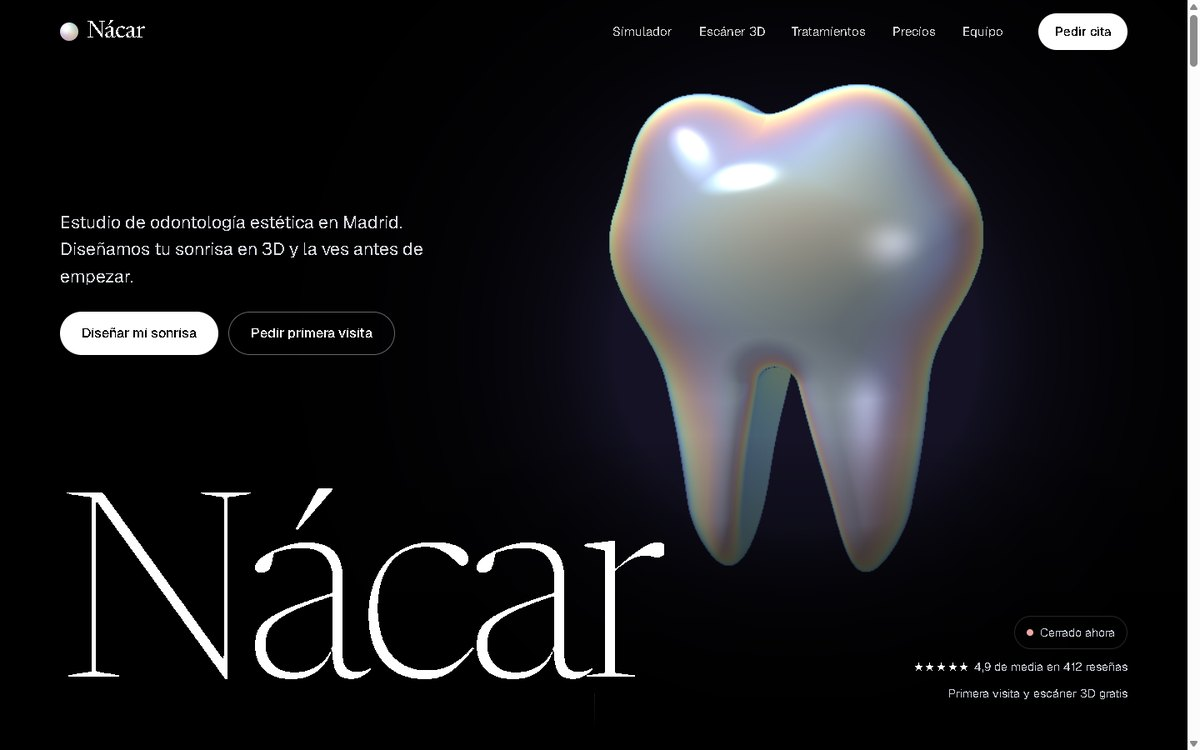
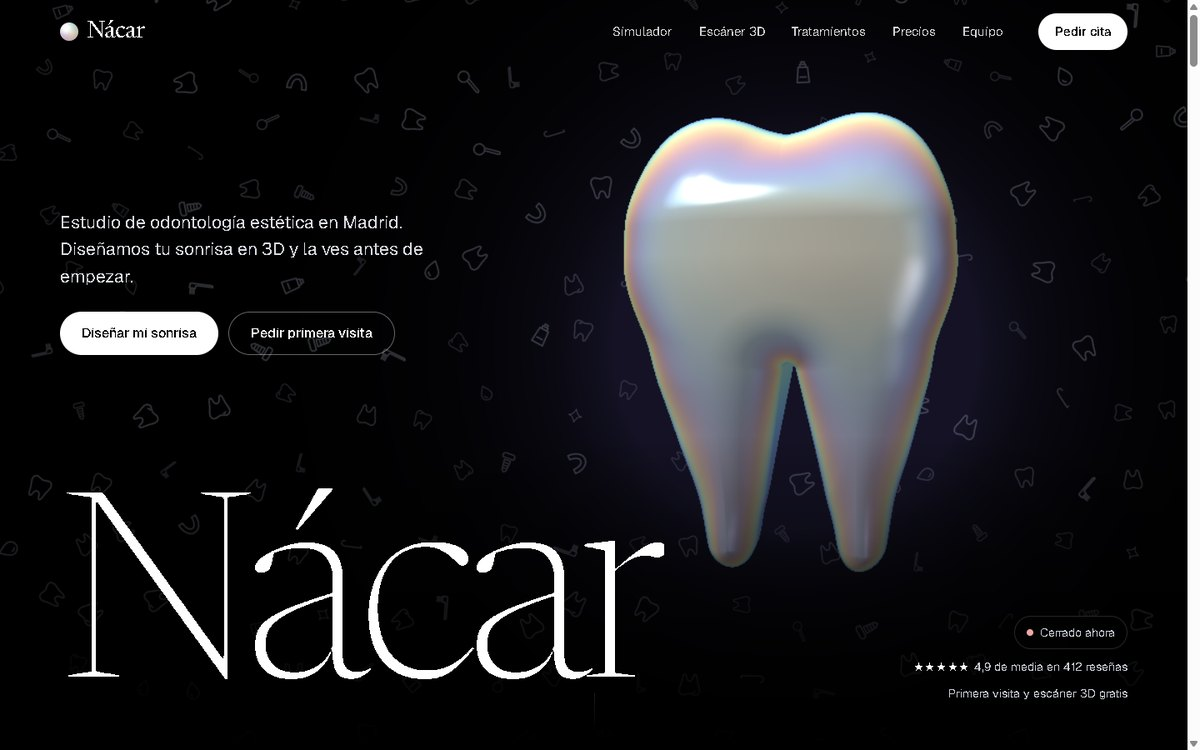
Nácar: pearl and tooth now loop, cleaner tooth outline, grey dental pattern on black
The tooth is built from its front outline (crown with two humps, walls
running into two roots) given depth as a domed slab. The pearl grows
into it and melts back on a 25 s loop. The outline pattern returns in
grey behind the black hero.

diff --git a/Websites/clinica_dental_nacar.html b/Websites/clinica_dental_nacar.html
@@ -89,6 +89,13 @@ h1,h2,h3,p{margin:0}
 
 /* ---------- hero ---------- */
 .hero{position:relative;height:100svh;min-height:640px;overflow:hidden;background:#000}
+/* dental pattern: small grey outline teeth and instruments scattered like a print; three depth layers follow the pointer */
+.doodles{position:absolute;inset:-40px;pointer-events:none;color:#5E626C}
+.dl{position:absolute;inset:0;transform:translate3d(calc(var(--hx,0) * var(--d) * -34px),calc(var(--hy,0) * var(--d) * -22px),0)}
+.doodle{position:absolute;left:var(--x);top:var(--y);width:var(--s);height:var(--s);margin:calc(var(--s) / -2) 0 0 calc(var(--s) / -2)}
+.doodle svg{width:100%;height:100%;overflow:visible;fill:none;stroke:currentColor;stroke-width:1.3;stroke-linecap:round;stroke-linejoin:round;stroke-dasharray:1;stroke-dashoffset:1;opacity:var(--o);transform:rotate(var(--r));transition:stroke-dashoffset 1.6s var(--ease) var(--w)}
+.ready .doodle svg{stroke-dashoffset:0;animation:doodle-float var(--t) ease-in-out calc(var(--w) + 1.6s) infinite alternate}
+@keyframes doodle-float{to{transform:rotate(calc(var(--r) + 14deg)) translate3d(0,-7px,0)}}
 .hero canvas,.hero .pearl-css{position:absolute;inset:0;width:100%;height:100%}
 .pearl-css{display:none;background:radial-gradient(circle at 64% 42%,transparent 0 23vmin,#000 23.4vmin),radial-gradient(circle at 58% 34%,#fff 0,transparent 9vmin),conic-gradient(from 210deg at 64% 42%,#f6dbe8,#dcd9ff,#cdeee5,#fbefd5,#f6dbe8)}
 .no-gl .pearl-css{display:block}
@@ -434,6 +441,7 @@ h1,h2,h3,p{margin:0}
 @media (prefers-reduced-motion:reduce){
   *,*::before,*::after{animation-duration:.001ms!important;animation-iteration-count:1!important;transition-duration:.001ms!important;transition-delay:0s!important}
   .rv,.line>span,.mark span{opacity:1!important;transform:none!important}
+  .doodle svg{stroke-dashoffset:0!important;animation:none!important}
   .clip{clip-path:none!important}
   .hero-meta{opacity:1}
   .marquee{animation:none!important;flex-wrap:nowrap}
@@ -471,6 +479,16 @@ h1,h2,h3,p{margin:0}
   <symbol id="i-moon" viewBox="0 0 24 24"><path d="M20 14.5A8 8 0 0 1 9.5 4a8 8 0 1 0 10.5 10.5z" fill="none" stroke="currentColor" stroke-width="1.5" stroke-linejoin="round"/></symbol>
   <symbol id="i-hand" viewBox="0 0 24 24"><path d="M8 13V6a1.5 1.5 0 0 1 3 0v5-7a1.5 1.5 0 0 1 3 0v7-5a1.5 1.5 0 0 1 3 0v8c0 4-2.5 7-6 7-2.5 0-4-1.2-5.5-3.5L4 13.5a1.5 1.5 0 0 1 2.4-1.8z" fill="none" stroke="currentColor" stroke-width="1.5" stroke-linejoin="round"/></symbol>
   <symbol id="i-cup" viewBox="0 0 24 24"><g fill="none" stroke="currentColor" stroke-width="1.5" stroke-linecap="round"><path d="M5 9h11v5a5 5 0 0 1-5 5h-1a5 5 0 0 1-5-5z"/><path d="M16 10h1.5a2.5 2.5 0 0 1 0 5H16M9 3v3M12 3v3"/></g></symbol>
+  <symbol id="d-tooth" viewBox="0 0 24 24"><path pathLength="1" d="M7 3.5c-2.2 0-3.6 1.8-3.4 4.2.2 2.1 1 3.4 1.6 5.6.5 2 .7 4.8 1.6 6.6.6 1.1 1.8.9 2.1-.4.4-1.7.6-4.6 3.1-4.6s2.7 2.9 3.1 4.6c.3 1.3 1.5 1.5 2.1.4.9-1.8 1.1-4.6 1.6-6.6.6-2.2 1.4-3.5 1.6-5.6.2-2.4-1.2-4.2-3.4-4.2-1.9 0-2.7 1.2-5 1.2S8.9 3.5 7 3.5z"/></symbol>
+  <symbol id="d-shine" viewBox="0 0 24 24"><path pathLength="1" d="M7 3.5c-2.2 0-3.6 1.8-3.4 4.2.2 2.1 1 3.4 1.6 5.6.5 2 .7 4.8 1.6 6.6.6 1.1 1.8.9 2.1-.4.4-1.7.6-4.6 3.1-4.6s2.7 2.9 3.1 4.6c.3 1.3 1.5 1.5 2.1.4.9-1.8 1.1-4.6 1.6-6.6.6-2.2 1.4-3.5 1.6-5.6.2-2.4-1.2-4.2-3.4-4.2-1.9 0-2.7 1.2-5 1.2S8.9 3.5 7 3.5zM7.2 6.4c.5-.7 1.3-1 2.1-.8"/></symbol>
+  <symbol id="d-brush" viewBox="0 0 24 24"><path pathLength="1" d="M2.5 15.5h12.8c.8 0 1.4-.6 1.4-1.4V13h4.8v2.6c0 .8-.6 1.4-1.4 1.4H3.6c-.6 0-1.1-.4-1.1-1zM17.4 12.6V8.4M19 12.6V8.4M20.6 12.6V8.4"/></symbol>
+  <symbol id="d-mirror" viewBox="0 0 24 24"><path pathLength="1" d="M20.5 7.5a4.5 4.5 0 1 1-9 0 4.5 4.5 0 0 1 9 0zM12.9 10.6 4.2 19.3a1.1 1.1 0 0 0 1.5 1.5l8.7-8.7"/></symbol>
+  <symbol id="d-probe" viewBox="0 0 24 24"><path pathLength="1" d="M3.5 20.5 14 10c1.6-1.6 3.4-1.9 4.6-.8 1.1 1 .9 2.7-.6 3.6M3.5 20.5l1.6 1"/></symbol>
+  <symbol id="d-aligner" viewBox="0 0 24 24"><path pathLength="1" d="M4 7c0 7.5 3.6 12 8 12s8-4.5 8-12M7.6 7.2c0 5 1.9 8 4.4 8s4.4-3 4.4-8M4 7h3.6M16.4 7.2H20"/></symbol>
+  <symbol id="d-implant" viewBox="0 0 24 24"><path pathLength="1" d="M7.2 3.6c1.5-.9 3-.3 4.8-.3s3.3-.6 4.8.3c1 .8 1 2.4.5 3.9H6.7c-.5-1.5-.5-3.1.5-3.9zM9 9.5h6l-.9 9.6L12 21l-2.1-1.9zM9.2 12.2h5.6M9.5 14.8h5M9.8 17.3h4.4"/></symbol>
+  <symbol id="d-spark" viewBox="0 0 24 24"><path pathLength="1" d="M12 3c.6 4.6 2.4 6.4 9 9-6.6 2.6-8.4 4.4-9 9-.6-4.6-2.4-6.4-9-9 6.6-2.6 8.4-4.4 9-9z"/></symbol>
+  <symbol id="d-drop" viewBox="0 0 24 24"><path pathLength="1" d="M12 3c3 4 5.5 7 5.5 10a5.5 5.5 0 0 1-11 0C6.5 10 9 7 12 3zM9.3 13.4c.2 1.3 1 2.1 2.2 2.4"/></symbol>
+  <symbol id="d-tube" viewBox="0 0 24 24"><path pathLength="1" d="M7 4h10l-1.1 12.5H8.1zM9.6 16.5v2.4h4.8v-2.4M10.6 18.9V21h2.8v-2.1M9.5 8.5h5"/></symbol>
 </svg>
 
 <a class="skip" href="#main">Saltar al contenido</a>
@@ -502,6 +520,7 @@ h1,h2,h3,p{margin:0}
 
 <!-- HERO: a living pearl of nacre (WebGL) that slowly becomes a tooth -->
 <section class="hero" id="inicio">
+  <div class="doodles" id="doodles" aria-hidden="true"></div>
   <canvas id="pearl" aria-hidden="true"></canvas>
   <div class="pearl-css" aria-hidden="true"></div>
   <div class="hero-in">
@@ -941,7 +960,7 @@ h1,h2,h3,p{margin:0}
   // ---------- HERO: a pearl of nacre, ray-marched in WebGL, that slowly grows into a tooth ----------
   const pearl = (() => {
     const cv = $('#pearl');
-    const gl = cv.getContext('webgl', {antialias: false, alpha: false, powerPreference: 'high-performance'});
+    const gl = cv.getContext('webgl', {antialias: false, alpha: true, premultipliedAlpha: true, powerPreference: 'high-performance'});
     const none = {start() {}, stop() {}, size() {}};
     if (!gl) { root.classList.add('no-gl'); return none; }
     const VS = 'attribute vec2 p;void main(){gl_Position=vec4(p,0.,1.);}';
@@ -958,23 +977,27 @@ float cone(vec3 p,vec3 a,vec3 b,float r1,float r2){
   if(sign(y)*a2*y2<k)return sqrt(x2+y2)*il2-r1;
   return (sqrt(x2*a2*il2)+y*rr)*il2-r1;
 }
-// a molar drawn like the classic tooth outline: one body whose walls run from the crown down into two roots,
-// with the arch between the roots carved up from below and a cross-shaped groove between four cusps on top
+// the tooth's front outline as a flat shape: a crown with two soft humps whose walls run straight down into two thick roots
+float sdRoundBox(vec2 p,vec2 b,float r){vec2 q=abs(p)-b+r;return length(max(q,0.))+min(max(q.x,q.y),0.)-r;}
+float outline(vec2 p){
+  vec2 c=vec2(abs(p.x),p.y);
+  float d=sdRoundBox(p-vec2(0.,.45),vec2(.84,.42),.36);
+  d=smin(d,length(c-vec2(.4,.78))-.36,.18);
+  d=smin(d,cone(vec3(p,0.),vec3(0.,.2,0.),vec3(0.,-.4,0.),.8,.62),.2);
+  d=smin(d,cone(vec3(c,0.),vec3(.36,-.25,0.),vec3(.35,-1.2,0.),.3,.17),.22);
+  return ssub(d,cone(vec3(p,0.),vec3(0.,-.2,0.),vec3(0.,-1.7,0.),.04,.3),.1);
+}
+// give the outline depth: a smooth domed slab (thick crown, slimmer roots) whose edges are rounded off where it meets the outline
 float tooth(vec3 p){
-  vec3 q=p*1.08;q.y-=.17;
-  float d=(length((q-vec3(0.,.42,0.))/vec3(.94,.6,.82))-1.)*.6;
-  d=smin(d,cone(vec3(q.x,q.y,q.z/.82),vec3(0.,.1,0.),vec3(0.,-.92,0.),.76,.62)*.82,.3);
-  d=ssub(d,cone(vec3(q.x,q.y,q.z*.15),vec3(0.,-.32,0.),vec3(0.,-1.7,0.),.13,.36),.16);
-  vec3 c=vec3(abs(q.x),q.y,abs(q.z));
-  d=smin(d,length(c-vec3(.4,.8,.32))-.24,.26);
-  d=ssub(d,min(length(vec3(max(abs(q.x)-.46,0.),q.y-1.08,q.z))-.1,length(vec3(q.x,q.y-1.08,max(abs(q.z)-.38,0.)))-.1),.12);
-  return d/1.08;
+  vec3 q=p*1.15;q.y-=.1;
+  float th=mix(.38,.74,smoothstep(-1.1,.4,q.y))*(1.-.28*q.x*q.x)*(1.-.45*smoothstep(.55,1.25,q.y));
+  return -smin(-outline(q.xy),-(abs(q.z)-th),.34)/1.15;
 }
 float map(vec3 p){
-  p.xz*=rot(mix(T*.11,A,K)+M.x*.7);p.yz*=rot(M.y*.45-.12*K);
-  float s=length(p)-1.+.075*sin(2.6*p.x+T*.8)*sin(2.9*p.y+T*.6)*sin(2.4*p.z+T*.7);
+  p.xz*=rot(A+M.x*.7);p.yz*=rot(M.y*.45-.1*K);
+  float s=length(p)-1.+.075*(1.-K)*sin(2.6*p.x+T*.8)*sin(2.9*p.y+T*.6)*sin(2.4*p.z+T*.7);
   float d=mix(s,tooth(p),K);
-  d+=.022*(1.-.75*K)*sin(6.*p.y+T*1.1+3.*p.x);
+  d+=.022*(1.-K)*sin(6.*p.y+T*1.1+3.*p.x);
   return d*.7;
 }
 vec3 nor(vec3 p){vec2 e=vec2(.002,0.);return normalize(vec3(map(p+e.xyy)-map(p-e.xyy),map(p+e.yxy)-map(p-e.yxy),map(p+e.yyx)-map(p-e.yyx)));}
@@ -989,11 +1012,11 @@ void main(){
   vec2 uv=(gl_FragCoord.xy-C)/R.y/Z;
   vec3 ro=vec3(0.,0.,3.4),rd=normalize(vec3(uv,-1.9));
   float t=0.,d=1.;bool hit=false;
-  for(int i=0;i<110;i++){d=map(ro+rd*t);if(d<.001){hit=true;break;}t+=d;if(t>6.)break;}
-  float r=length(uv);
+  for(int i=0;i<150;i++){d=map(ro+rd*t);if(d<.001){hit=true;break;}t+=d;if(t>6.)break;}
+  float r=length(uv),a=0.;
   vec3 col=vec3(.42,.38,.75)*.22*exp(-4.*max(r-.5,0.))*Z*1.8;
   if(hit){
-    vec3 p=ro+rd*t,n=nor(p),v=-rd;
+    vec3 p=ro+rd*t,n=nor(p),v=-rd;a=1.;
     float nv=max(dot(n,v),0.),fr=pow(1.-nv,2.4);
     vec3 film=iri(nv*1.25+.16*sin(p.y*3.+T*.4)+T*.03);
     vec3 base=mix(vec3(.95,.94,.97),film,.16+.5*fr);
@@ -1002,7 +1025,7 @@ void main(){
     col=base*dif*.9+env(reflect(rd,n))*(.1+.5*fr)*mix(vec3(1.),film,.6)+pow(max(dot(reflect(-l,n),v),0.),70.)*1.2;
     col+=vec3(.95,.9,1.)*pow(max(dot(reflect(-normalize(vec3(.7,-.3,.6)),n),v),0.),24.)*.25;
   }
-  gl_FragColor=vec4(col,1.);
+  gl_FragColor=vec4(col,a);
 }`;
     const sh = (type, src) => { const s = gl.createShader(type); gl.shaderSource(s, src); gl.compileShader(s); return s; };
     const pr = gl.createProgram();
@@ -1029,8 +1052,8 @@ void main(){
       const t = (now - t0) / 1000;
       const k = reduce.matches ? 1 : ease(clamp((now - born) / 2200, 0, 1));
       mx = lerp(mx, tx, .04); my = lerp(my, ty, .04);
-      // stays a pearl for a moment, then takes ten slow seconds to become a tooth
-      const m = reduce.matches ? 1 : clamp((now - born - 2500) / 10000, 0, 1), K = m * m * (3 - 2 * m);
+      // a slow loop: pearl (3 s), grows into a tooth (8 s), holds (6 s), melts back into the pearl (8 s)
+      const c = ((now - born) / 1000) % 25, m = reduce.matches ? 1 : c < 3 ? 0 : c < 11 ? (c - 3) / 8 : c < 17 ? 1 : (25 - c) / 8, K = m * m * (3 - 2 * m);
       const dt = last ? Math.min((now - last) / 1000, .05) : 0; last = now;
       flick *= Math.exp(-dt * 1.4); pulse *= Math.exp(-dt * 5); turn += dt * flick;
       if (flick < .4) turn = lerp(turn, Math.round(turn / 6.2832) * 6.2832, 1 - Math.exp(-dt * 2.5));
@@ -1038,7 +1061,7 @@ void main(){
       const rpx = phone ? th * q / 2.55 : Math.min(H * .27, W * .2);
       const cx = phone ? W * .5 : W * .67, cy = phone ? H - (92 + th / 2) * q : H * .54;
       gl.uniform2f(U.R, W, H); gl.uniform1f(U.T, reduce.matches ? 4 : t);
-      gl.uniform2f(U.M, mx, my); gl.uniform1f(U.K, K); gl.uniform1f(U.A, (reduce.matches ? 0 : Math.sin(t * .35) * .45) + turn);
+      gl.uniform2f(U.M, mx, my); cv.parentElement.style.setProperty('--hx', mx.toFixed(3)); cv.parentElement.style.setProperty('--hy', my.toFixed(3)); gl.uniform1f(U.K, K); gl.uniform1f(U.A, (reduce.matches ? 0 : Math.sin(t * .35) * .45) + turn);
       gl.uniform2f(U.C, cx + mx * 14 * q, cy + my * 10 * q);
       gl.uniform1f(U.Z, Math.max(rpx / (.56 * H), .001) * (.35 + .65 * k) * (1 + .06 * Math.sin(pulse * 9) * pulse));
       gl.drawArrays(gl.TRIANGLES, 0, 3);
@@ -1054,6 +1077,33 @@ void main(){
       stop() { cancelAnimationFrame(raf); raf = 0; }
     };
     return api;
+  })();
+
+  // ---------- HERO PATTERN: scattered grey outline teeth and instruments, drawn in as a ripple from the tooth ----------
+  (() => {
+    const box = $('#doodles'); if (!box) return;
+    // mostly teeth, like a print; the rest are the tools of the trade
+    const BAG = ['tooth', 'tooth', 'tooth', 'shine', 'tooth', 'mirror', 'tooth', 'brush', 'shine', 'probe', 'tooth', 'implant', 'spark', 'aligner', 'tube', 'drop', 'brush', 'tooth', 'mirror'];
+    let seed = 7; const rnd = () => (seed = (seed * 16807) % 2147483647) / 2147483647;
+    let lastW = 0;
+    const lay = () => {
+      const w = box.clientWidth, h = box.clientHeight;
+      if (Math.abs(w - lastW) < 40) return; lastW = w; seed = 7;
+      const phone = w < 760, cell = phone ? 62 : 84, size = phone ? 26 : 32;
+      const cols = Math.ceil(w / cell), rows = Math.ceil(h / cell);
+      const px = phone ? .5 : .67, py = phone ? .2 : .46;
+      const layers = [[], [], []];
+      for (let r = 0; r < rows; r++) for (let c = 0; c < cols; c++) {
+        const x = (c + .5 + (rnd() - .5) * .55 + (r % 2) * .5) / cols, y = (r + .5 + (rnd() - .5) * .55) / rows;
+        const n = BAG[Math.floor(rnd() * BAG.length)], L = Math.floor(rnd() * 3);
+        const dist = Math.hypot(x - px, (y - py) * h / w);
+        const s = size * (n === 'spark' ? .6 : 1) * (.85 + L * .12);
+        layers[L].push(`<span class="doodle" style="--x:${(x * 100).toFixed(2)}%;--y:${(y * 100).toFixed(2)}%;--s:${s.toFixed(1)}px;--r:${Math.round(rnd() * 360)}deg;--t:${(6 + rnd() * 6).toFixed(1)}s;--w:${(.4 + dist * 1.8).toFixed(2)}s;--o:${(.32 + L * .1).toFixed(2)}"><svg><use href="#d-${n}"/></svg></span>`);
+      }
+      box.innerHTML = layers.map((l, i) => `<div class="dl" style="--d:${(.35 + i * .35).toFixed(2)}">${l.join('')}</div>`).join('');
+    };
+    lay();
+    let to; addEventListener('resize', () => { clearTimeout(to); to = setTimeout(lay, 200); });
   })();
 
   // ---------- SMILE STUDIO: shade guide fan + before/after split ----------
